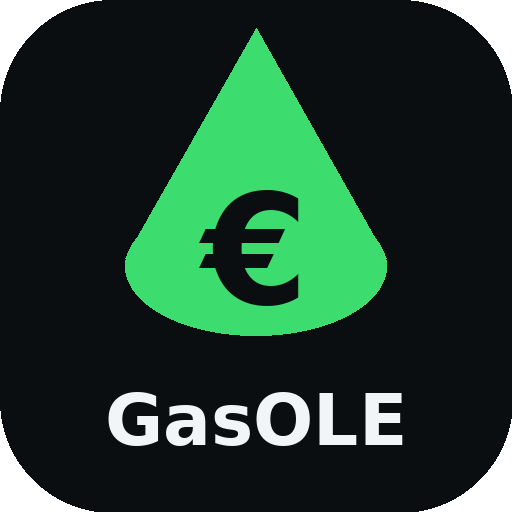
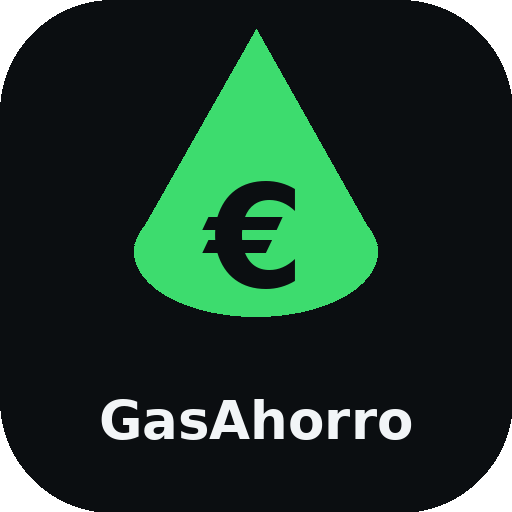
Rename a GasAhorro

Changed region(s): [[0.2188, 0.3438, 0.7812, 0.6562], [0.1875, 0.75, 0.8125, 0.875]]

diff --git a/index.html b/index.html
@@ -3,7 +3,7 @@
 <head>
 <meta charset="utf-8">
 <meta name="viewport" content="width=device-width, initial-scale=1, viewport-fit=cover">
-<title>GasOLE - La gasolinera más barata cerca de ti</title>
+<title>GasAhorro - La gasolinera más barata cerca de ti</title>
 <meta name="description" content="Encuentra la gasolinera que de verdad te ahorra dinero: precio oficial del Ministerio y ahorro neto con el viaje incluido.">
 <meta name="theme-color" content="#0b0e11">
 <link rel="manifest" href="manifest.webmanifest">
@@ -16,7 +16,7 @@
 </head>
 <body>
 <header class="top">
-  <div class="brand"><span class="logo">⛽</span><h1>Gas<span>OLE</span></h1></div>
+  <div class="brand"><span class="logo">⛽</span><h1>Gas<span>Ahorro</span></h1></div>
   <div class="updated" id="updated" title="Fecha de los precios oficiales"></div>
 </header>
 

diff --git a/sw.js b/sw.js
@@ -1,4 +1,4 @@
-const CACHE = "gasole-v1";
+const CACHE = "gasahorro-v1";
 const SHELL = ["./", "index.html", "styles.css", "app.js", "manifest.webmanifest"];
 self.addEventListener("install", e => { e.waitUntil(caches.open(CACHE).then(c => c.addAll(SHELL))); self.skipWaiting(); });
 self.addEventListener("activate", e => { e.waitUntil(caches.keys().then(ks => Promise.all(ks.filter(k => k !== CACHE).map(k => caches.delete(k))))); self.clients.claim(); });

diff --git a/README.md b/README.md
@@ -1,4 +1,4 @@
-# GasOLE ⛽
+# GasAhorro ⛽
 
 La gasolinera más barata cerca de ti, ordenada por **ahorro real**: precio oficial menos lo que gastas en llegar.
 
